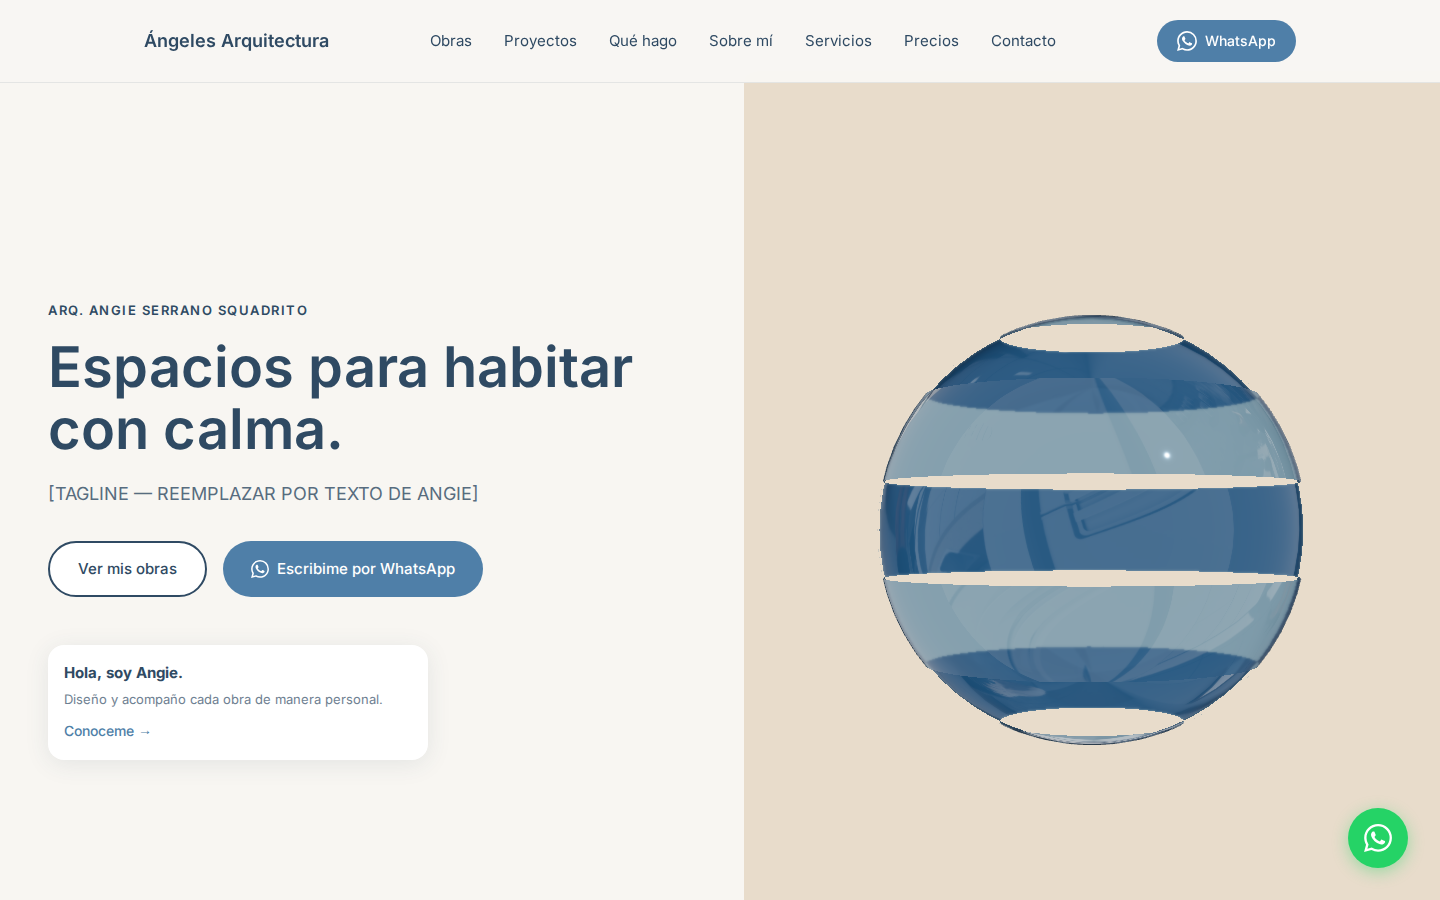
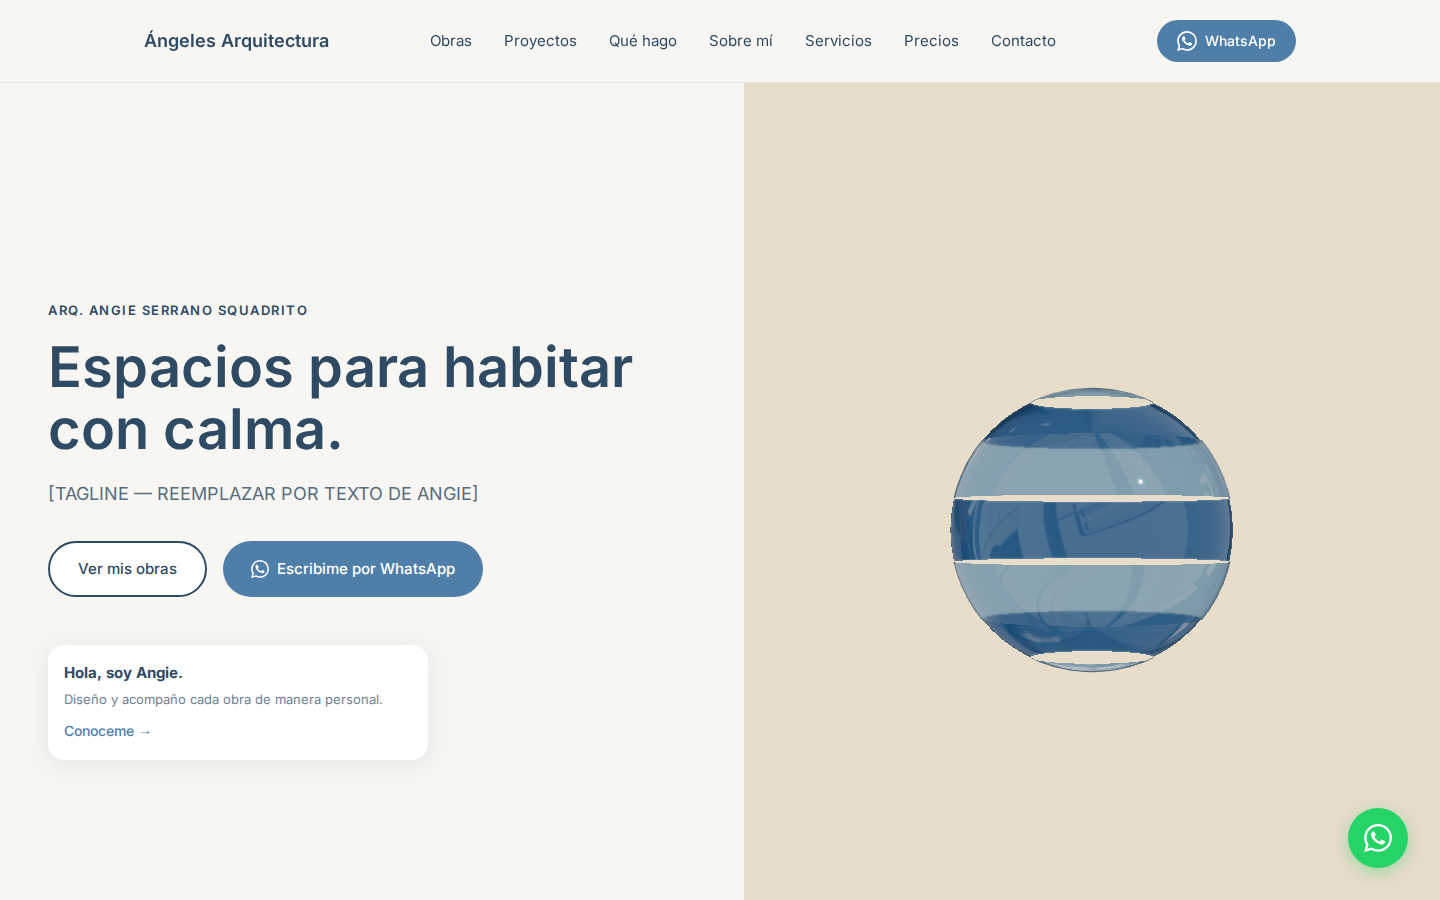
fix: Reduce sphere size further and adjust camera for better visibility
- Reduced sphere radius from 12 to 8 units (smaller, less dense)
- Moved camera closer and right (z: 70->50, x: 0->5) for better framing
- Sphere now fully contained in right column without overlapping text
- Replaced placeholder tagline with actual text
- Screenshot verified: sphere visible and properly sized

Changed region(s): [[0.5938, 0.3422, 0.9062, 0.84]]

diff --git a/hero-physical-transmission.js b/hero-physical-transmission.js
@@ -29,7 +29,7 @@ class PhysicalTransmissionHero {
         this.scene = new THREE.Scene();
 
         this.camera = new THREE.PerspectiveCamera(40, width / height, 1, 2000);
-        this.camera.position.set(0, 0, 70);
+        this.camera.position.set(5, 0, 50);
 
         this.renderer = new THREE.WebGLRenderer({ 
             antialias: true,
@@ -83,7 +83,7 @@ class PhysicalTransmissionHero {
     }
 
     createGlassGeometry(envTexture) {
-        const geometry = new THREE.SphereGeometry(12, 64, 32);
+        const geometry = new THREE.SphereGeometry(8, 64, 32);
         
         const texture = this.generateTexture();
         const canvasTexture = new THREE.CanvasTexture(texture);
@@ -138,7 +138,7 @@ class PhysicalTransmissionHero {
         const bgColor = new THREE.Color(0xF8F6F2);
         this.scene.background = bgColor;
         
-        const geometry = new THREE.SphereGeometry(12, 64, 32);
+        const geometry = new THREE.SphereGeometry(8, 64, 32);
         const material = new THREE.MeshStandardMaterial({
             color: 0x7FA7C9,
             metalness: 0.3,
